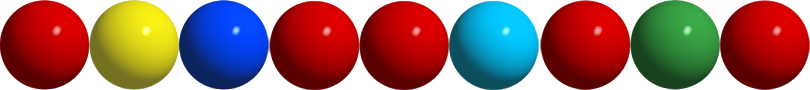
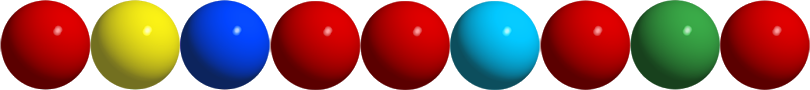
- Fixed the sprie of balls - Each ball had a random texture from

diff --git a/qml/game/Ball.qml b/qml/game/Ball.qml
@@ -3,50 +3,12 @@ import QtQuick 2.3
 
 EntityBase {
     id: ball
-    //entityId: "ball"
-    //entityType: "ballType"
 
     property alias radius: ballCollider.radius
     property alias body: ballCollider.body
 
     property double impulseX
     property double impulseY
-
-    /*AnimatedSpriteVPlay {
-        id: sprite
-        anchors.fill: ballCollider
-        frameCount: 9
-        frameWidth: 90
-        frameHeight: 90
-        source: "../../assets/img/balls.png"
-        running: true
-    }
-    */
-
-    /*Image {
-        id: boxImage
-        source: "../../assets/img/balls.png"
-        anchors.fill: ballCollider
-        x:-sprite.width*sprite.frame
-    }
-    SpriteVPlay {
-        id: sprite
-        anchors.fill: ballCollider
-        duration: 100000
-        frameCount: 9
-        source: "../../assets/img/balls.png"
-        frameWidth: 90
-        frameHeight: 90
-        //startFrameColumn: Math.random()*3
-        //startFrameRow: Math.random()*3
-        randomStart: true
-    }*/
-    Rectangle {
-        width: ballCollider.radius*2
-        height: width
-        radius: width/2
-        color: "red"
-    }
 
     CircleCollider {
         id: ballCollider
@@ -63,11 +25,27 @@ EntityBase {
         }
     }
 
+    AnimatedSpriteVPlay {
+        id: sprite
+        width: 2*ball.radius
+        height: 2*ball.radius
+        x: ballCollider.x
+        y: ballCollider.y
+        frameCount: 9
+        frameWidth: 90
+        frameHeight: 90
+        source: "../../assets/img/balls.png"
+        running: false
+        frameX: Math.round( utils.generateRandomValueBetween(1,8) ) *frameWidth
+    }
+
     function pushBall() {
         var localForwardVector = ballCollider.body.toWorldVector(Qt.point(ball.impulseX,ball.impulseY));
         ballCollider.body.applyLinearImpulse( localForwardVector, ballCollider.body.getWorldCenter() );
-        console.log("1:Push the ball:"+localForwardVector.x+";"+localForwardVector.y)
+        //console.log("1:Push the ball:"+localForwardVector.x+";"+localForwardVector.y)
     }
 
-    Component.onCompleted: pushBall()
+    Component.onCompleted: {
+        pushBall()
+    }
 }
